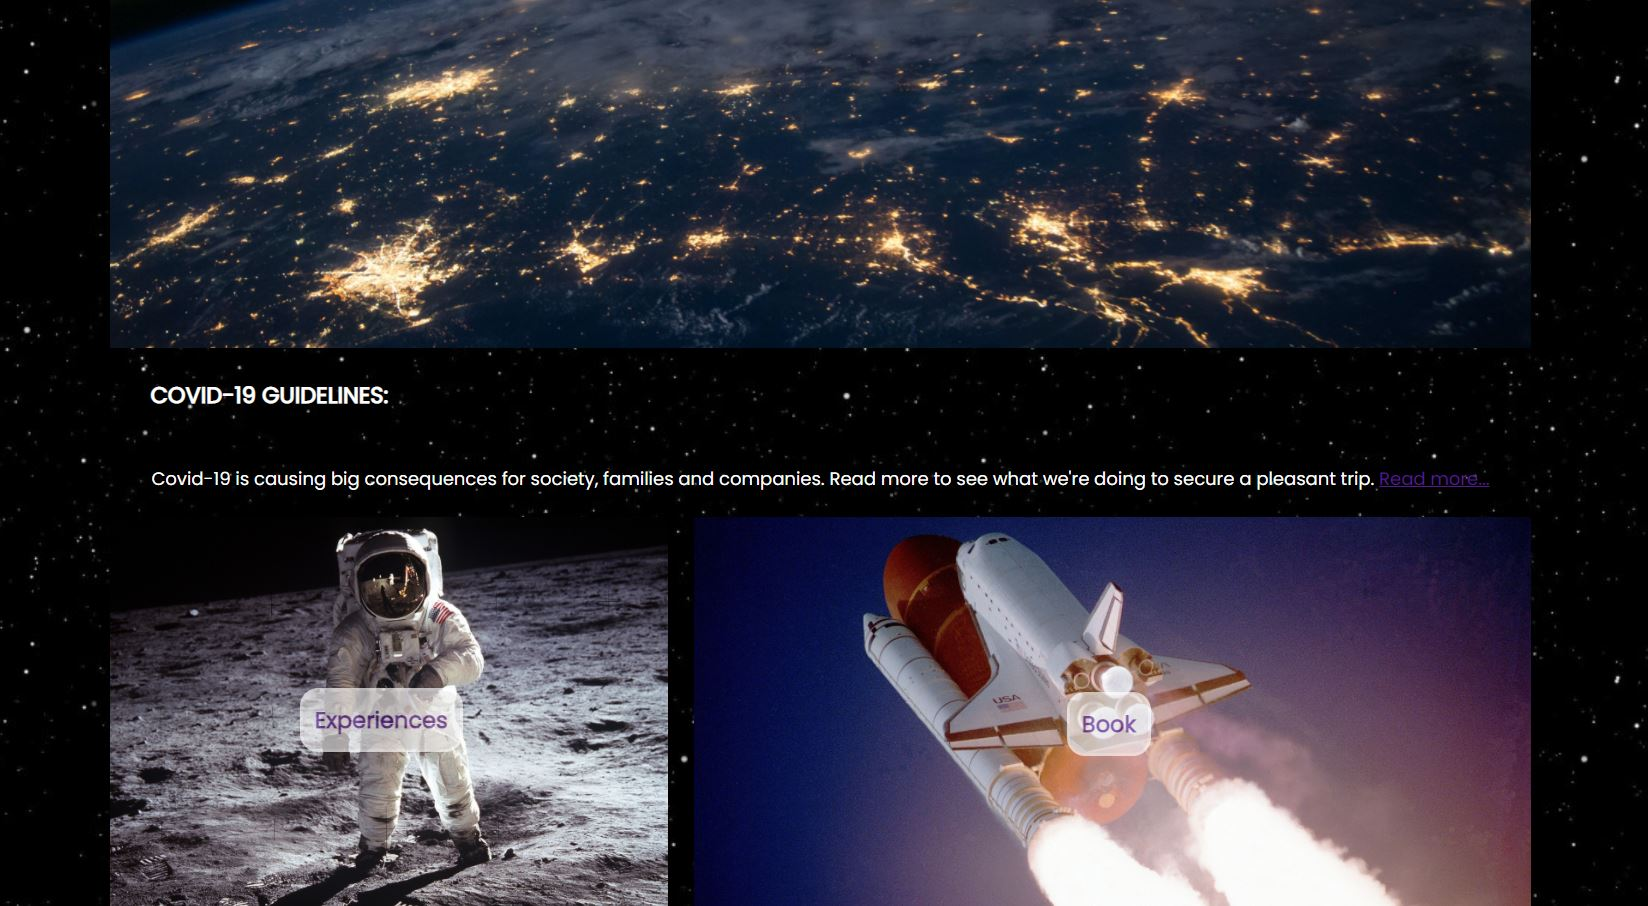
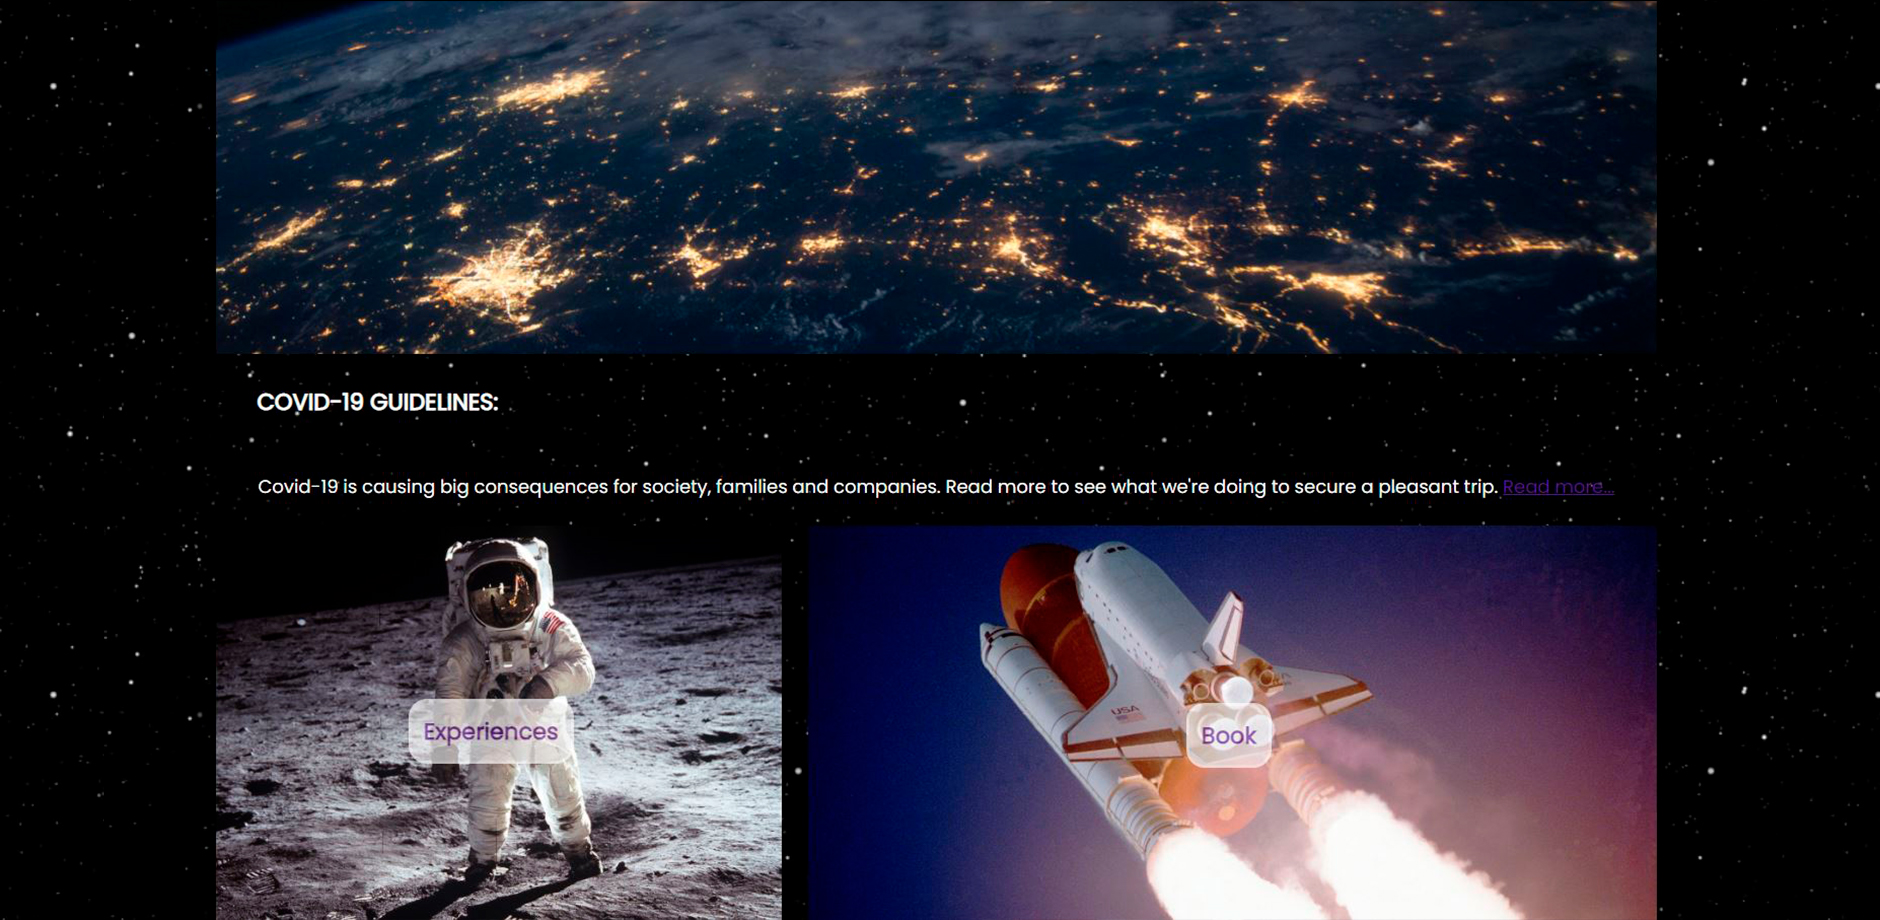
færdig side uden kontakt mig tekst

diff --git a/index.html b/index.html
@@ -21,30 +21,31 @@ function myFunction() {
 </head>
 <!-- Her starter hamburger-menuen -->
 <link rel="stylesheet" href="https://cdnjs.cloudflare.com/ajax/libs/font-awesome/4.7.0/css/font-awesome.min.css">
-
+<div class="sticky">
 <div class="topnav" id="myTopnav">
   <a class="first" href="#kontakt">Kontakt</a>
-  <a href="#projektert">Projekter</a>
+  <a href="#projekter">Projekter</a>
   <a href="#om">Om mig</a>
   <a href="javascript:void(0);" class="icon" onclick="myFunction()">
     <i class="fa fa-bars"></i>
   </a>
 </div>
+</div>
 <!-- Her slutter hamburger-menuen -->
 
 <!-- Her starter header paa siden -->
 
-<header class="hero">
+<div class="hero">
     <div class="container spacing">
       <!--
       <p id="img_logo"><img src="images/logo.PNG" alt="" height="150px" width="150px"> </p>
       -->
       <h1 class="primary-title">Mila Danailova</h1>
       <a href="#down" class="btn">Scroll Down</a>
-      <div id="down">
+      <div id="down"></p><a name="om"></a>
       </div>
     </div>
-  </header>
+  </div>
 
   <!-- Her slutter header paa siden -->
 
@@ -60,13 +61,13 @@ function myFunction() {
 
 <!-- Her slutter (SCROLL DOWN) paa siden -->
 <div class="tekst">
-  <div class="custom"  >
+  <div class="custom" >
   <h2> Velkommen til min portfolio</h2>
     <hr />
  <p>Jeg har sammensat denne portfolio, hvor jeg viser mine projekter frem - alt lige fra webdesigns til logos, og grafisk design. </p>
- <p> Jeg er studerende på Zealand Erhvervsakademi som multimediedesigner på 1. semester. Mine færdigheder stræber sig bredt inden for både kodnings og grafisk design opgaver.</p>
+ <p> Mit navn er Mila Danailova. Jeg er 20 år og bor i Høje Taastrup. I øjeblikket læser jeg multimediedesign på Zealand Erhvervsakademi. Jeg elsker nye udfordringer og så går jeg aldrig ind i et projekt uden at gøre det 100% færdigt. Mine færdigheder stræber sig bredt inden for både kodnings og grafisk design opgaver. Har du en freelance opgave, så skriv endelig!</p><a name="projekter"></a>
 </div>
-
+</div>
 <div class="projekter">
   <h2>Projekter</h2>
   <h4>En samling af mine skole og private projekter. Lige fra webdesign til andre kreative ideer.</h4>
@@ -76,12 +77,12 @@ function myFunction() {
     <img src="rumrejsen.jpg" alt="Rumrejsen" style="width:80%">
   </a>
     <h4> Tema 1.1: Rumrejsen</h4>
-    <p>Forsiden for Danmarks Nationale Rumraketsprogram. </p>
+    <p>Forsiden for Danmarks Nationale Rumraketsprogram </p>
   </div>
   <div class="column">
     <img src="ballet.jpg" alt="Ballet" style="width:80%">
     <h4> Tema 1.2: Dans, dans, dans</h4>
-      <p>Om os side kodet for mobil, til balletskolen Balletto. </p>
+      <p>Om os side kodet for mobil, til balletskolen Balletto </p>
   </div>
   <div class="column">
     <img src="bagrattet.jpg" alt="Bil" style="width:80%">
@@ -93,25 +94,26 @@ function myFunction() {
   <div class="column">
     <img src="video.jpg" alt="Bil" style="width:80%">
     <h4> Tema 1.4: Video</h4>
-      <p>Videoprojekt - "En dag i Nicoles liv".</p>
+      <p>Videoprojekt - "En dag i Nicoles liv"</p>
     <p>  </p>
   </div>
   <div class="column">
     <img src="ballet.jpg" alt="Ballet" style="width:80%">
-    <h4> Tema 1.2: Dans, dans, dans</h4>
-      <p>Logo for en revisorfirma. </p>
+    <h4> Freelance logo</h4>
+      <p>Logo til en revisorfirma </p>
   </div>
   <div class="column">
-    <img src="bagrattet.jpg" alt="Bil" style="width:80%">
-    <h4> Noget</h4>
+    <img src="biocosmetic.jpg" alt="Bil" style="width:80%">
+    <h4> Freelance logo</h4><a name="kontakt"></a>
+    <p>Logo til den bulgarske butik "Bio Cosmetic Brands</p>
   </div>
 </div>
 </div>
 
 <div class="row">
-  <div class="column">
+  <div class="column" id="left_column">
   </div>
-  <div class="column">
+  <div class="column" id="right_column">
     <div class="formular">
       <h2>Kontakt mig</h2>
       <form action="action_page.php">

diff --git a/style.css b/style.css
@@ -207,6 +207,7 @@ body {
     text-align: center;
     margin: 0;
     color: #586673;
+    margin: 40px 0 40px 0;
 }
 
 h2 {
@@ -217,7 +218,11 @@ h2 {
 
 .projekter {
   background-color: #e4dcd1;
+  text-align: center;
+  color: #586673;
+  padding-top: 10px;
 }
+
 
 .row {
   display: flex;
@@ -238,6 +243,9 @@ h2 {
     text-align: left;
   }
 
+.custom p {
+margin: 20px 40px 20px 40px;
+}
 
 .footer {
     background-color: #313131;
@@ -265,8 +273,11 @@ p {
     font-size: 13px;
 }
 
-.custom {
-
+.sticky {
+	position: -webkit-sticky;
+	position: sticky;
+	top: 0;
+  z-index: 99999;
 }
 
 }
@@ -312,7 +323,7 @@ input[type=submit]:hover {
   background-color: #cdb499;
   padding: 20px;
   width:90%;
-  margin-bottom: 20px;
+  margin: 20px auto 30px auto;
   }
 
   .formular h2 {
@@ -321,13 +332,25 @@ input[type=submit]:hover {
 
 @media screen and (max-width: 500px) {
   .column {
-    width: 100%;
+  width: 100%;
   }
+
+  .row {
+    display: flex;
+   flex-direction: column;
+  }
+
+
   .footer {
     background-image: url(footer1.png);
     background-repeat: no-repeat;
     background-size: cover;
   }
+
+.tekst {
+  margin: 0 10px 0 10px;
+}
+
 }
 }
 
@@ -344,3 +367,4 @@ input[type=submit]:hover {
     text-align: center;
     min-height: 252px;
     position: relative;
+}
